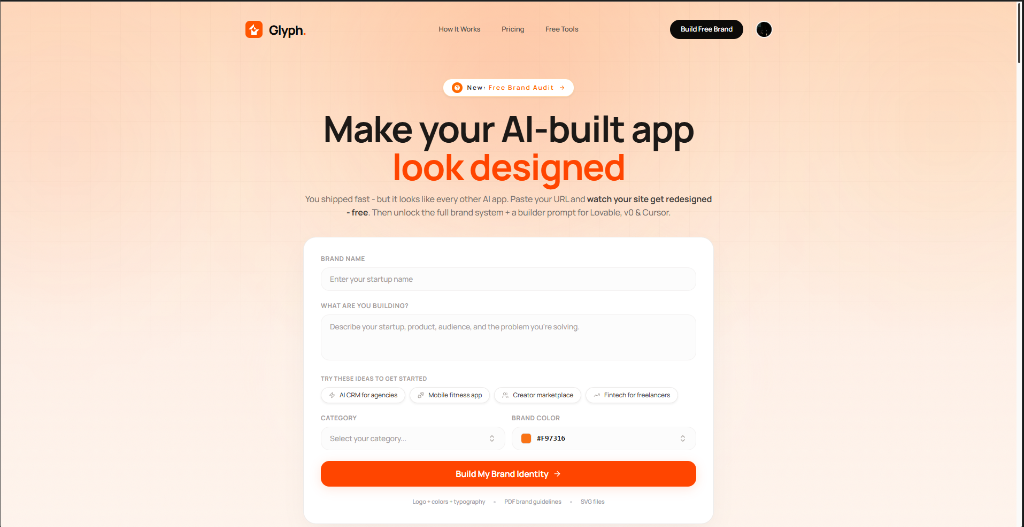
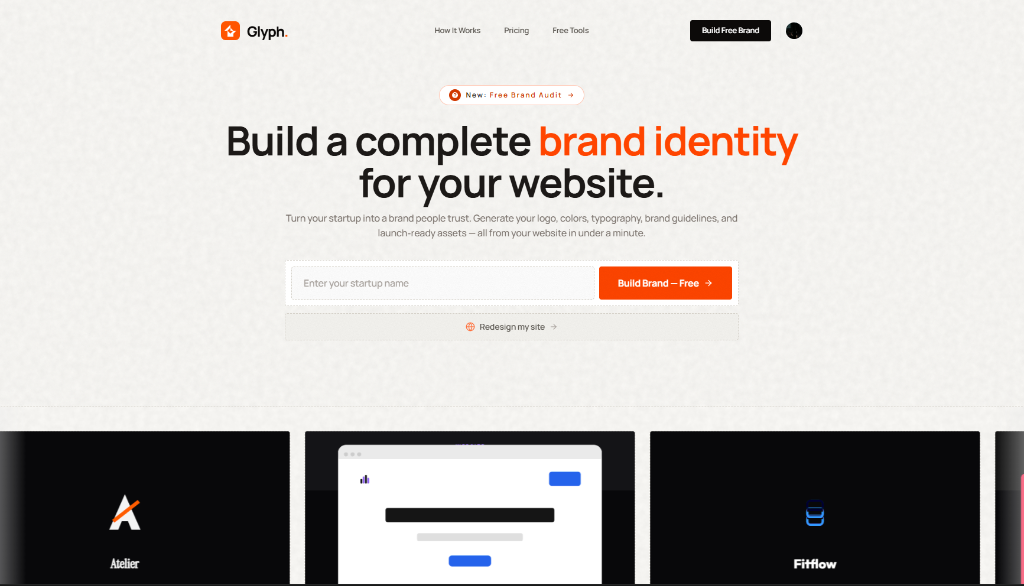
ss

diff --git a/src/app/page.tsx b/src/app/page.tsx
@@ -132,23 +132,6 @@ export default function Home() {
                 {/* Experience Timeline */}
                 <div className="pt-6 border-t border-zinc-100 dark:border-zinc-800/80">
                     <div className="relative pl-4 border-l border-zinc-200/90 dark:border-zinc-800 space-y-6 text-[13px]">
-                        {/* Blurr Design */}
-                        <div className="relative">
-                            <span className="absolute -left-[21px] top-1.5 flex h-2 w-2">
-                                <span className="animate-ping absolute inline-flex h-full w-full rounded-full bg-green-400 opacity-75"></span>
-                                <span className="relative inline-flex rounded-full h-2 w-2 bg-green-500"></span>
-                            </span>
-                            <div className="flex items-baseline justify-between flex-wrap gap-2">
-                                <div>
-                                    <span className="font-bold text-zinc-900 dark:text-white">Blurr Design</span>
-                                    <span className="text-zinc-500 dark:text-zinc-400 font-normal ml-2">— Design Engineer (Part-time)</span>
-                                </div>
-                                <span className="text-zinc-400 dark:text-zinc-500 font-mono text-xs">Jul 2026 – Present</span>
-                            </div>
-                            <p className="text-[12px] text-zinc-600 dark:text-zinc-400 mt-1.5 leading-relaxed max-w-xl">
-                                Partnered with early-stage founders to design interactive interfaces in Figma and ship production-grade code, helping multiple startups launch and scale their MVPs.
-                            </p>
-                        </div>
                         {/* Glyph */}
                         <div className="relative">
                             <span className="absolute -left-[21px] top-1.5 h-2 w-2 rounded-full bg-zinc-300 dark:bg-zinc-700 border border-white dark:border-zinc-950" />
@@ -165,7 +148,10 @@ export default function Home() {
                         </div>
                         {/* Glyph Skill */}
                         <div className="relative">
-                            <span className="absolute -left-[21px] top-1.5 h-2 w-2 rounded-full bg-zinc-300 dark:bg-zinc-700 border border-white dark:border-zinc-950" />
+                            <span className="absolute -left-[21px] top-1.5 flex h-2 w-2">
+                                <span className="animate-ping absolute inline-flex h-full w-full rounded-full bg-green-400 opacity-75"></span>
+                                <span className="relative inline-flex rounded-full h-2 w-2 bg-green-500"></span>
+                            </span>
                             <div className="flex items-baseline justify-between flex-wrap gap-2">
                                 <div>
                                     <a 

diff --git a/src/data/projects.ts b/src/data/projects.ts
@@ -26,7 +26,7 @@ export const projects: Project[] = [
     name: "Glyph Skill",
     category: "AI Coding Assistant Skill",
     description: "An enforceable brand, layout, and documentation skill for your AI coding assistant. Import strict layout constraints, typography locks, color variables, and animation limits.",
-    image: "/glyph-skill.png",
+    image: "/glyph-skill.jpg",
     metrics: "Live · Open Source",
     liveUrl: "https://glyph-skillfordesign.vercel.app/",
     githubUrl: "https://github.com/sumitttt4/Glyph-Skill",